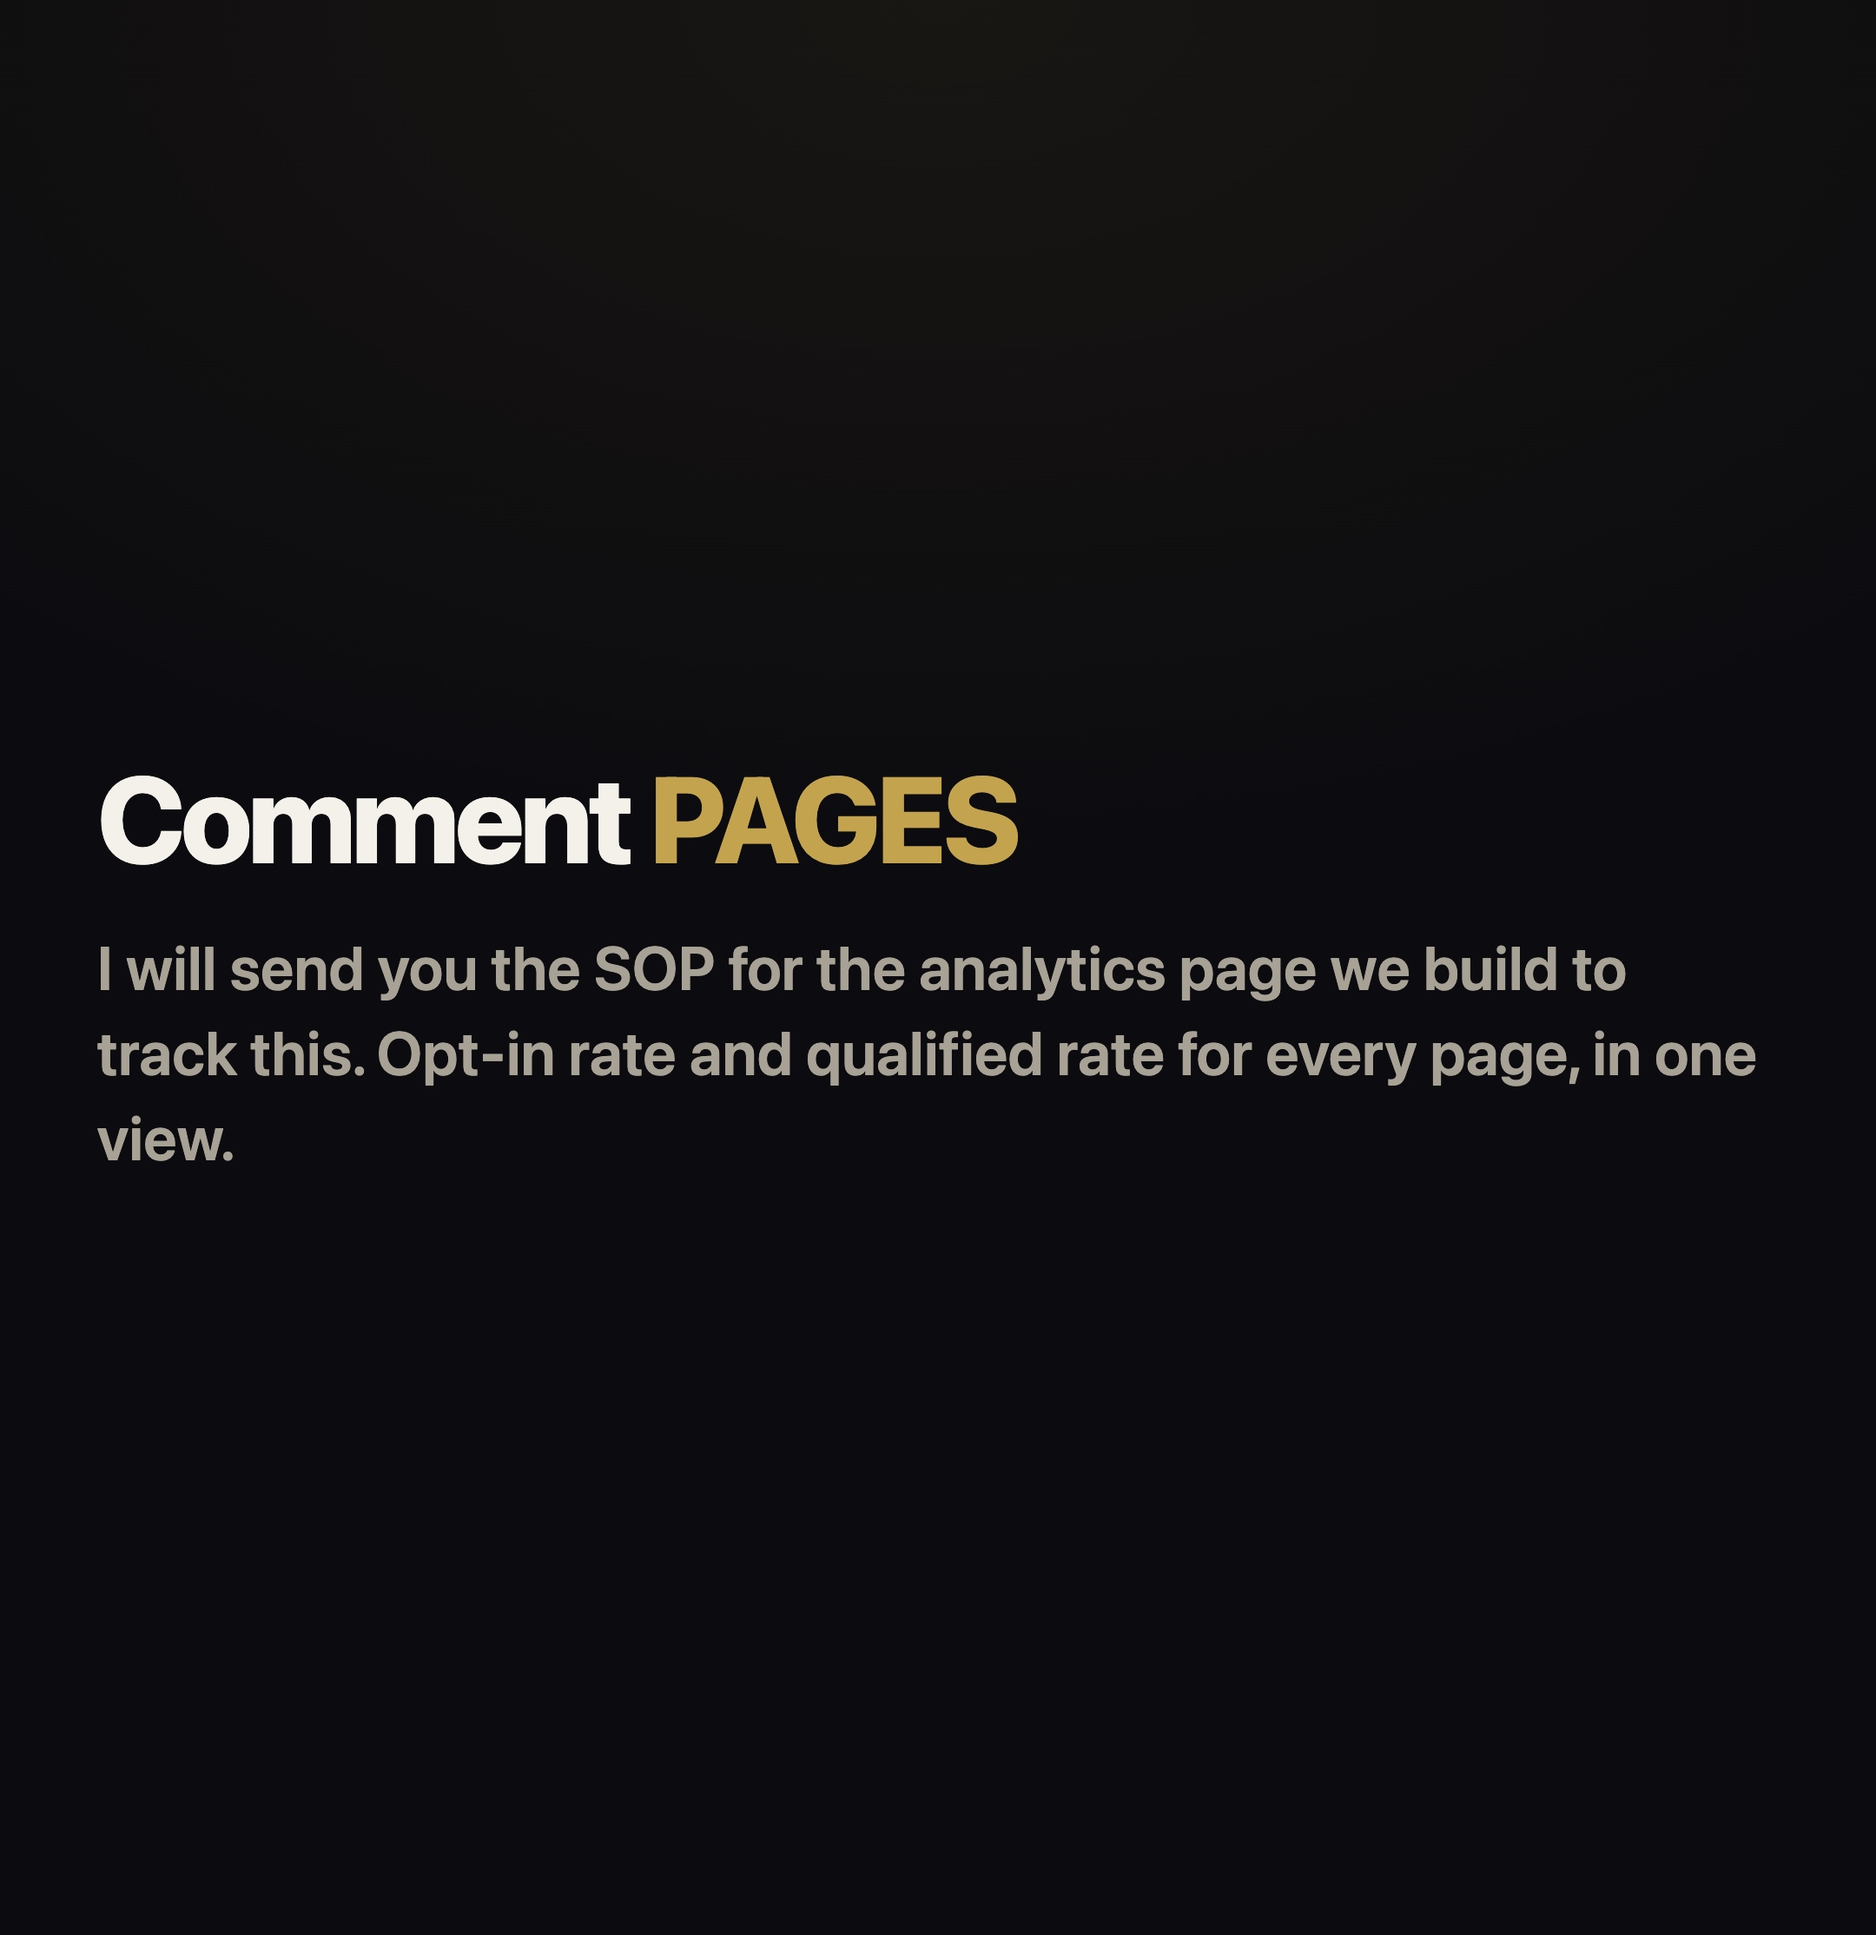
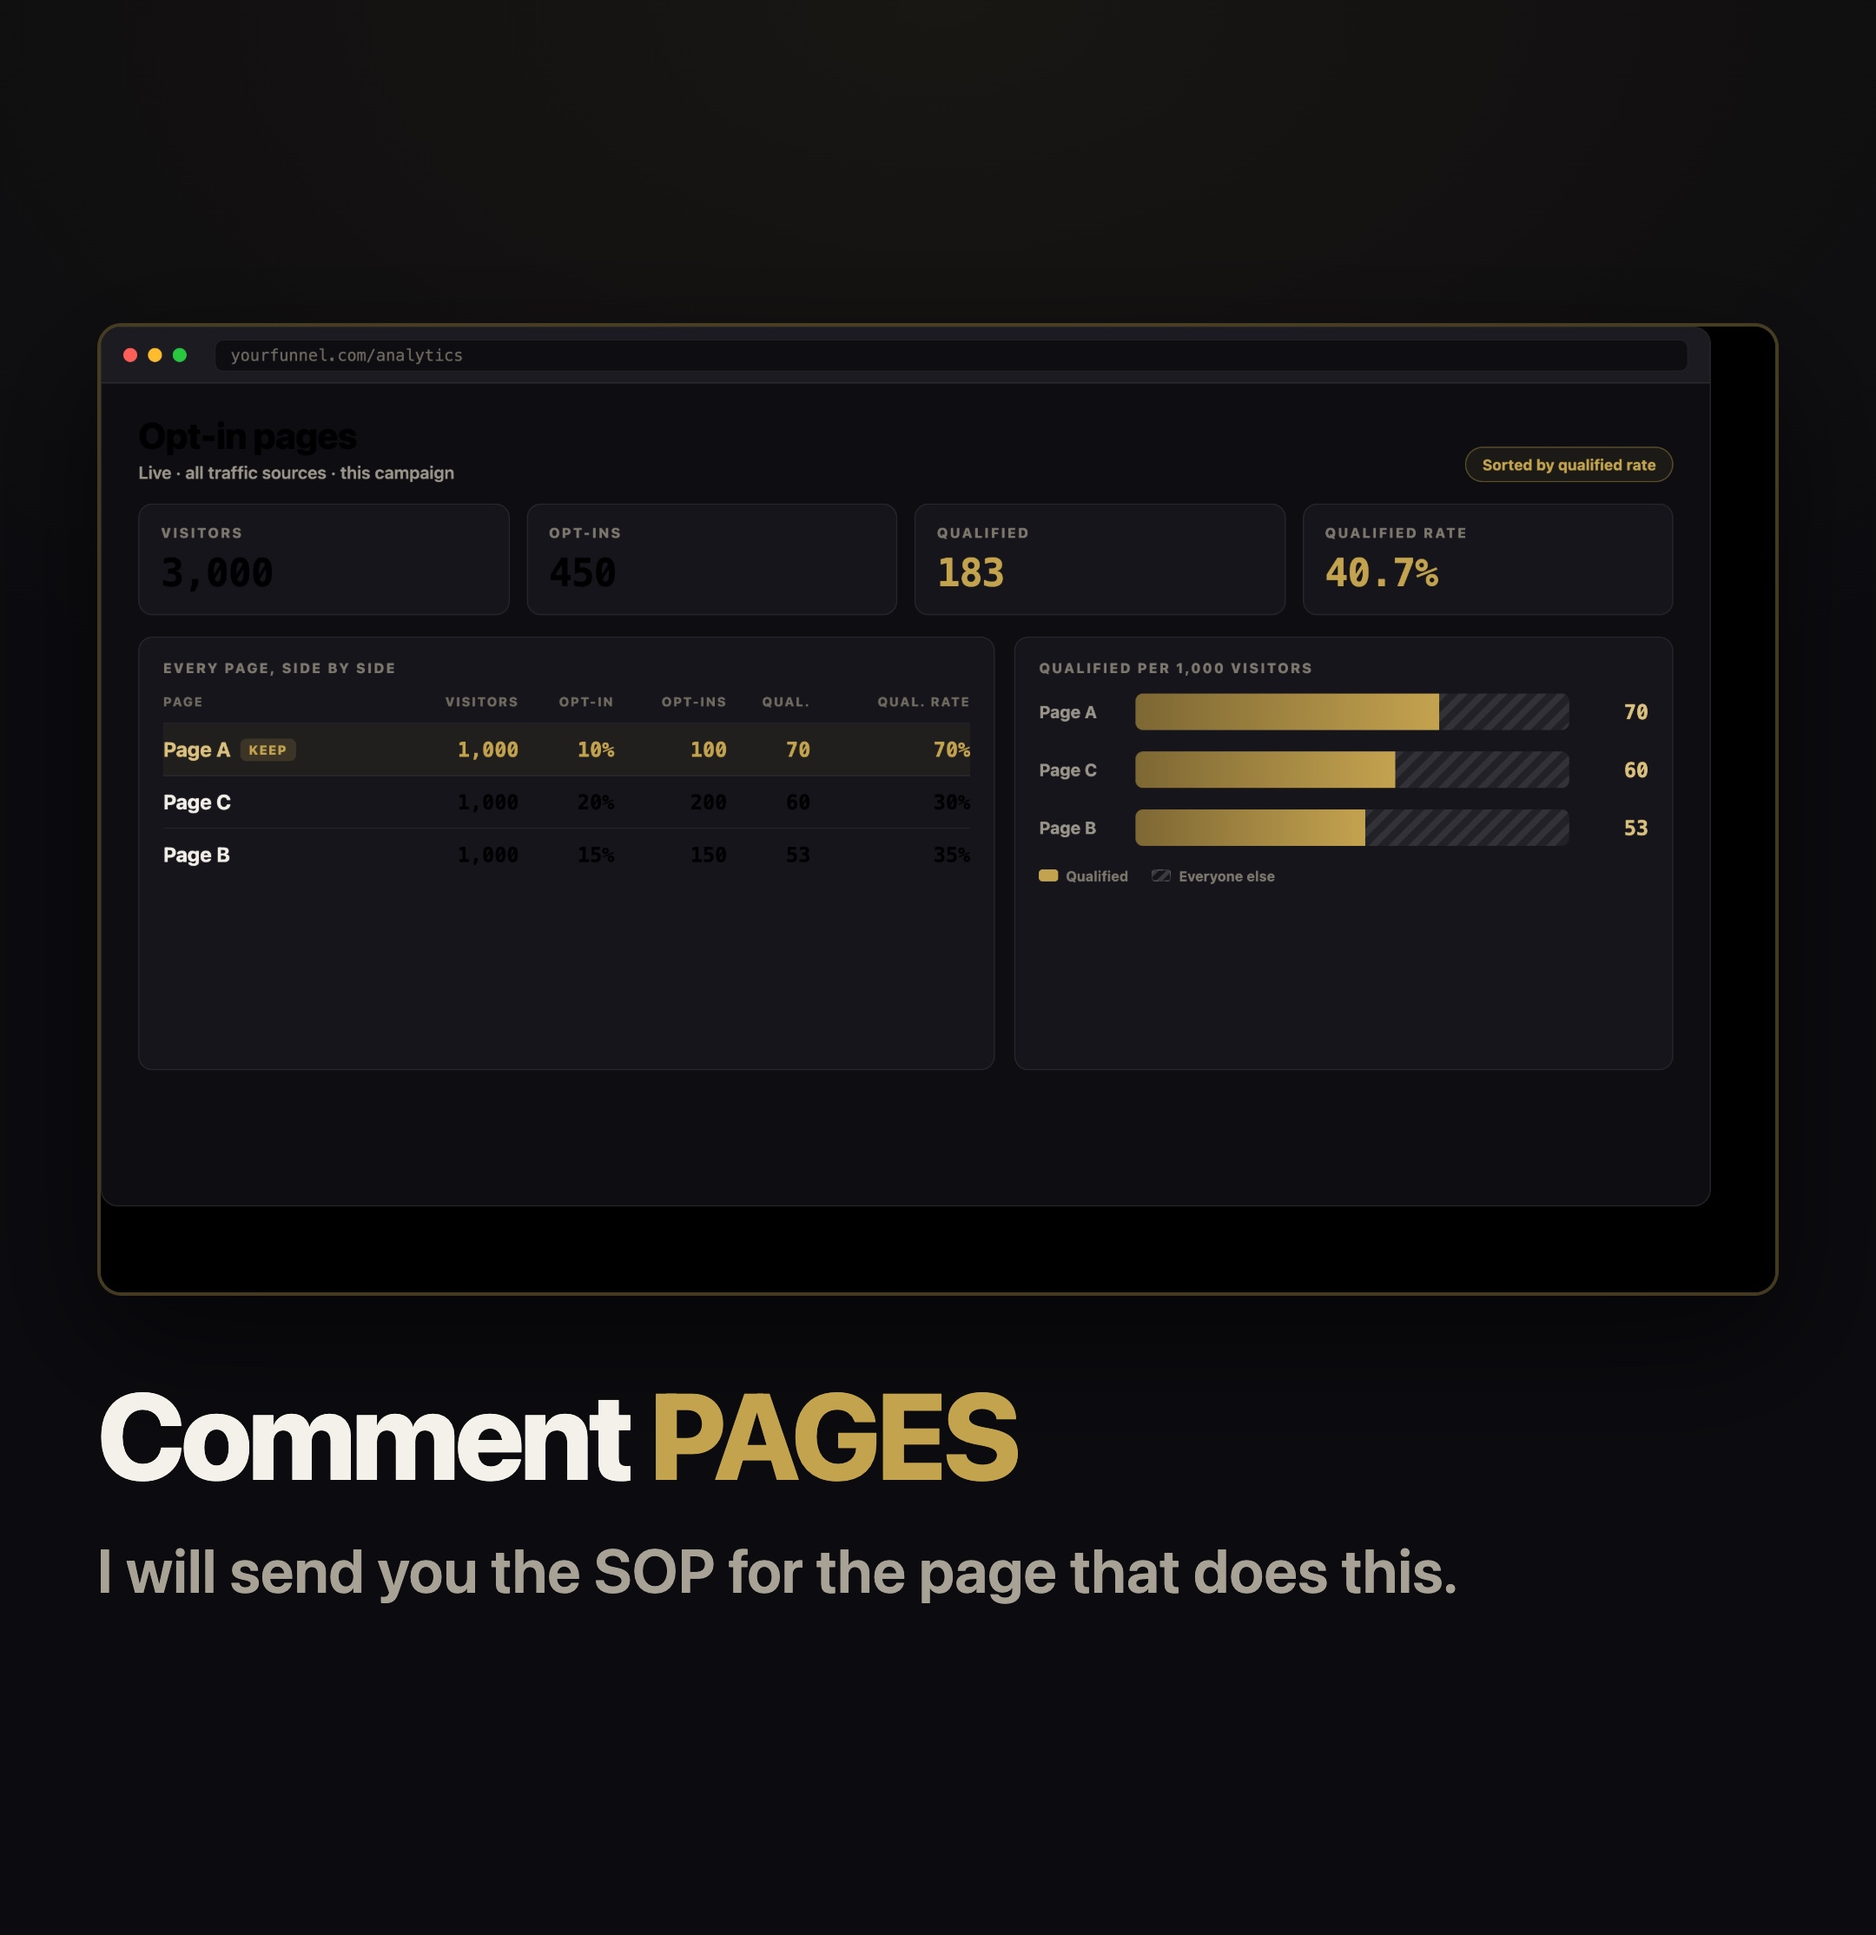
Show, don't tell: analytics page on the CTA, live webinar on the funnel hook
optin-rate CTA now carries a screenshot of the analytics page above
'Comment PAGES' so people see the thing they are commenting for. Built as
a mock with the same A/B/C example from the video, so there is no client
data on this board at all.

funnel slide 1 gets a stylised live webinar behind the numbers - LIVE
badge, watching count, slide area, presenter tile, chat - to hold
attention through the opening line.

Fixes a CSS class collision that was breaking the mock: <tr class='win'>
was picking up the browser-window .win rule (1500x820, display:flex) and
collapsing the whole table.

Claude-Session: https://claude.ai/code/session_01JyUvhGiU74myjNDStH3gj5

diff --git a/analytics-mock.html b/analytics-mock.html
@@ -1,0 +1,111 @@
+<!doctype html>
+<html lang="en">
+<head>
+<meta charset="utf-8">
+<title>Analytics page mock · 1500×820</title>
+<style>
+  :root{ --gold:#C4A34F; --gold-soft:#dcc07d; --ink:#f2efe8; --mut:#9a958a; --bg:#0e0e11; --panel:#15151a;
+    --line:rgba(255,255,255,.08);
+    --sans:system-ui,-apple-system,"Segoe UI",Roboto,Helvetica,Arial,sans-serif;
+    --mono:ui-monospace,SFMono-Regular,Menlo,Consolas,monospace; }
+  *{margin:0;padding:0;box-sizing:border-box}
+  body{background:#000;font-family:var(--sans)}
+  .win{width:1500px;height:820px;flex:0 0 820px;background:var(--bg);border-radius:16px;overflow:hidden;
+    border:1px solid rgba(255,255,255,.10);display:flex;flex-direction:column}
+  .bar{height:52px;background:#1b1b21;border-bottom:1px solid var(--line);display:flex;align-items:center;
+    padding:0 20px;gap:10px;flex:0 0 52px}
+  .dot{width:13px;height:13px;border-radius:50%}
+  .url{flex:1;margin-left:16px;height:30px;border-radius:8px;background:#0e0e12;border:1px solid var(--line);
+    display:flex;align-items:center;padding:0 14px;font-size:15px;color:#6f6a60;font-family:var(--mono)}
+  .body{height:768px;padding:28px 34px;display:flex;flex-direction:column;gap:20px}
+  .top{display:flex;align-items:flex-end;justify-content:space-between}
+  h1{font-size:34px;font-weight:800;letter-spacing:-.02em}
+  .top .sub{font-size:16px;color:var(--mut);font-weight:600;margin-top:6px}
+  .pill{font-size:14px;font-weight:700;color:var(--gold);border:1px solid rgba(196,163,79,.4);
+    border-radius:20px;padding:7px 15px;background:rgba(196,163,79,.08)}
+
+  .tiles{display:grid;grid-template-columns:repeat(4,1fr);gap:16px}
+  .tile{background:var(--panel);border:1px solid var(--line);border-radius:13px;padding:18px 20px}
+  .tile .k{font-size:13px;letter-spacing:.13em;text-transform:uppercase;color:#7d786e;font-weight:800}
+  .tile .v{font-family:var(--mono);font-size:36px;font-weight:800;margin-top:9px;letter-spacing:-.02em}
+  .tile.acc .v{color:var(--gold)}
+
+  .grid{display:grid;grid-template-columns:1.3fr 1fr;gap:18px;height:404px}
+  .card{background:var(--panel);border:1px solid var(--line);border-radius:13px;padding:20px 22px;
+    display:block;overflow:hidden}
+  .card .ct{font-size:13px;letter-spacing:.13em;text-transform:uppercase;color:#7d786e;font-weight:800;margin-bottom:16px}
+
+  table{width:100%;border-collapse:collapse}
+  th{font-size:12px;letter-spacing:.1em;text-transform:uppercase;color:#6f6a60;font-weight:800;
+    text-align:right;padding:0 0 12px}
+  th:first-child{text-align:left}
+  td{font-family:var(--mono);font-size:19px;font-weight:700;text-align:right;padding:13px 0;
+    border-top:1px solid rgba(255,255,255,.055)}
+  td:first-child{text-align:left;font-family:var(--sans);font-weight:700;color:var(--ink)}
+  tr.best td{color:var(--gold);background:rgba(196,163,79,.07)}
+  tr.best td:first-child{color:var(--gold-soft)}
+  .badge{font-family:var(--sans);font-size:12px;font-weight:800;letter-spacing:.08em;background:rgba(196,163,79,.16);
+    color:var(--gold);border-radius:6px;padding:3px 8px;margin-left:9px;vertical-align:2px}
+
+  .bars{display:flex;flex-direction:column;gap:20px;margin-top:6px}
+  .brow{display:flex;align-items:center;gap:14px}
+  .brow .bl{width:76px;flex:0 0 76px;font-size:16px;color:var(--mut);font-weight:700}
+  .brow .bt{flex:1;height:34px;background:rgba(255,255,255,.05);border-radius:7px;display:flex;overflow:hidden}
+  .brow .q{height:100%;background:linear-gradient(90deg,#7d6733,var(--gold))}
+  .brow .r{height:100%;background:repeating-linear-gradient(135deg,rgba(255,255,255,.08) 0 6px,transparent 6px 13px)}
+  .brow .bv{width:60px;flex:0 0 60px;text-align:right;font-family:var(--mono);font-size:19px;font-weight:800;color:var(--gold-soft)}
+  .legend{display:flex;gap:22px;margin-top:20px;font-size:13px;color:#7d786e;font-weight:700}
+  .legend i{display:inline-block;width:18px;height:11px;border-radius:3px;margin-right:7px}
+  .legend .a i{background:var(--gold)}
+  .legend .b i{background:repeating-linear-gradient(135deg,rgba(255,255,255,.16) 0 4px,transparent 4px 9px);
+    border:1px solid rgba(255,255,255,.14)}
+</style>
+</head>
+<body>
+<div class="win">
+  <div class="bar">
+    <span class="dot" style="background:#ff5f57"></span>
+    <span class="dot" style="background:#febc2e"></span>
+    <span class="dot" style="background:#28c840"></span>
+    <div class="url">yourfunnel.com/analytics</div>
+  </div>
+  <div class="body">
+    <div class="top">
+      <div>
+        <h1>Opt-in pages</h1>
+        <div class="sub">Live &middot; all traffic sources &middot; this campaign</div>
+      </div>
+      <div class="pill">Sorted by qualified rate</div>
+    </div>
+
+    <div class="tiles">
+      <div class="tile"><div class="k">Visitors</div><div class="v">3,000</div></div>
+      <div class="tile"><div class="k">Opt-ins</div><div class="v">450</div></div>
+      <div class="tile acc"><div class="k">Qualified</div><div class="v">183</div></div>
+      <div class="tile acc"><div class="k">Qualified rate</div><div class="v">40.7%</div></div>
+    </div>
+
+    <div class="grid">
+      <div class="card">
+        <div class="ct">Every page, side by side</div>
+        <table>
+          <tr><th>Page</th><th>Visitors</th><th>Opt-in</th><th>Opt-ins</th><th>Qual.</th><th>Qual. rate</th></tr>
+          <tr class="best"><td>Page A<span class="badge">KEEP</span></td><td>1,000</td><td>10%</td><td>100</td><td>70</td><td>70%</td></tr>
+          <tr><td>Page C</td><td>1,000</td><td>20%</td><td>200</td><td>60</td><td>30%</td></tr>
+          <tr><td>Page B</td><td>1,000</td><td>15%</td><td>150</td><td>53</td><td>35%</td></tr>
+        </table>
+      </div>
+      <div class="card">
+        <div class="ct">Qualified per 1,000 visitors</div>
+        <div class="bars">
+          <div class="brow"><div class="bl">Page A</div><div class="bt"><div class="q" style="width:70%"></div><div class="r" style="width:30%"></div></div><div class="bv">70</div></div>
+          <div class="brow"><div class="bl">Page C</div><div class="bt"><div class="q" style="width:60%"></div><div class="r" style="width:40%"></div></div><div class="bv">60</div></div>
+          <div class="brow"><div class="bl">Page B</div><div class="bt"><div class="q" style="width:53%"></div><div class="r" style="width:47%"></div></div><div class="bv">53</div></div>
+        </div>
+        <div class="legend"><span class="a"><i></i>Qualified</span><span class="b"><i></i>Everyone else</span></div>
+      </div>
+    </div>
+  </div>
+</div>
+</body>
+</html>

diff --git a/frames-funnel.html b/frames-funnel.html
@@ -122,15 +122,61 @@
   .opts2{display:flex;flex-direction:column;gap:12px;margin-top:22px}
   .opts2 .o{border:2px solid rgba(255,255,255,.16);border-radius:9px;padding:16px 18px;font-size:25px;color:#c9c4ba}
   .opts2 .o.q{border-color:var(--gold);background:rgba(196,163,79,.13);color:var(--gold-soft);font-weight:700}
+
+  /* stylised live webinar, for the opening slide */
+  .weby{margin-top:40px;border-radius:16px;overflow:hidden;border:2px solid rgba(255,255,255,.10);
+    background:#111116;box-shadow:0 22px 60px rgba(0,0,0,.55)}
+  .weby .wbar{height:52px;background:#1a1a20;border-bottom:1px solid rgba(255,255,255,.07);
+    display:flex;align-items:center;gap:12px;padding:0 20px}
+  .weby .live{display:flex;align-items:center;gap:9px;font-size:20px;font-weight:800;letter-spacing:.12em;color:#ff5f57}
+  .weby .live i{width:13px;height:13px;border-radius:50%;background:#ff5f57;display:inline-block}
+  .weby .watch{margin-left:auto;font-size:20px;font-weight:700;color:#8d887d;font-family:var(--mono)}
+  .weby .wmain{display:grid;grid-template-columns:1fr 250px;height:392px}
+  .weby .stage{position:relative;background:
+      radial-gradient(90% 70% at 30% 20%, rgba(196,163,79,.16), transparent 60%),#0d0d11;
+    padding:34px;display:flex;flex-direction:column;justify-content:center;gap:18px}
+  .weby .sl{height:20px;border-radius:6px;background:rgba(255,255,255,.13)}
+  .weby .sl.t{height:36px;width:74%;background:linear-gradient(90deg,var(--gold),rgba(196,163,79,.35))}
+  .weby .sl.a{width:88%} .weby .sl.b{width:66%} .weby .sl.c{width:78%}
+  .weby .cam{position:absolute;right:26px;bottom:26px;width:150px;height:106px;border-radius:11px;
+    background:linear-gradient(160deg,#3a3630,#1b1a18);border:2px solid rgba(196,163,79,.45)}
+  .weby .cam:after{content:"";position:absolute;left:50%;top:30px;width:40px;height:40px;border-radius:50%;
+    background:rgba(255,255,255,.22);transform:translateX(-50%)}
+  .weby .chat{background:#15151a;border-left:1px solid rgba(255,255,255,.07);padding:24px 20px;
+    display:flex;flex-direction:column;gap:17px}
+  .weby .msg{height:15px;border-radius:5px;background:rgba(255,255,255,.10)}
+  .weby .msg.s{width:62%} .weby .msg.m{width:86%} .weby .msg.l{width:100%}
+  .weby .msg.g{background:rgba(196,163,79,.42)}
 </style>
 </head>
 <body>
 
 <!-- g1 · the hook, in dollars -->
 <div class="f" id="g1">
-  <div class="eb">One webinar · nine days</div>
+  <div class="eb">One webinar &middot; nine days</div>
   <h1>$5,826 in ads. <span>$100,000</span> back.</h1>
-  <div class="sub">A 17&times; return on ad spend. Here is the exact webinar funnel that did it.</div>
+  <div class="sub" style="margin-top:20px">A 17&times; return on ad spend. Here is the exact webinar funnel that did it.</div>
+  <div class="weby">
+    <div class="wbar">
+      <span class="live"><i></i>LIVE</span>
+      <span class="watch">412 watching</span>
+    </div>
+    <div class="wmain">
+      <div class="stage">
+        <div class="sl t"></div>
+        <div class="sl a"></div>
+        <div class="sl b"></div>
+        <div class="sl c"></div>
+        <div class="cam"></div>
+      </div>
+      <div class="chat">
+        <div class="msg m"></div><div class="msg s"></div><div class="msg l"></div>
+        <div class="msg g s"></div><div class="msg m"></div><div class="msg s"></div>
+        <div class="msg l"></div><div class="msg g m"></div><div class="msg s"></div>
+        <div class="msg m"></div>
+      </div>
+    </div>
+  </div>
 </div>
 
 <!-- g2 · the architecture, simplified for the board -->
@@ -282,9 +328,9 @@
 </div>
 
 <div class="f" id="g14">
-  <div class="eb">The whole build</div>
+  <div class="eb">The whole thing, start to finish</div>
   <h1 class="sm">Comment <span>FUNNEL</span></h1>
-  <div class="sub">I'll send you our opt-in form SOPs: the page structure, the two-step spec and the thank-you routing.</div>
+  <div class="sub">I'll send you the full 35-minute breakdown of the strategy we actually ran on this launch.</div>
 </div>
 
 </body>

diff --git a/frames-optinrate.html b/frames-optinrate.html
@@ -138,9 +138,12 @@
   <div class="sub">Put it in front of registration and you lose people who would have signed up, and you never find out who they were.<br><br>Put it on the thank-you page and you keep them and still get the answer.</div>
 </div>
 
-<div class="f" id="o8">
-  <h1 class="sm">Comment <span>PAGES</span></h1>
-  <div class="sub">I will send you the SOP for the analytics page we build to track this. Opt-in rate and qualified rate for every page, in one view.</div>
+<div class="f" id="o8" style="justify-content:center">
+  <div style="border-radius:14px;overflow:hidden;border:2px solid rgba(196,163,79,.30);box-shadow:0 26px 70px rgba(0,0,0,.6)">
+    <img src="img/analytics-mock.jpg" style="display:block;width:100%">
+  </div>
+  <h1 class="sm" style="margin-top:44px">Comment <span>PAGES</span></h1>
+  <div class="sub" style="margin-top:18px">I will send you the SOP for the page that does this.</div>
 </div>
 
 </body>

diff --git a/index.html b/index.html
@@ -119,7 +119,7 @@
   // Beat 1 must put something checkable on screen, with a date.
   // Load a specific board with ?b=<slug>.
   // ---------------------------------------------------------------
-  var ASSET_V = '6';   // bump whenever a frame image is re-rendered
+  var ASSET_V = '7';   // bump whenever a frame image is re-rendered
 
   var BOARDS = {
 
